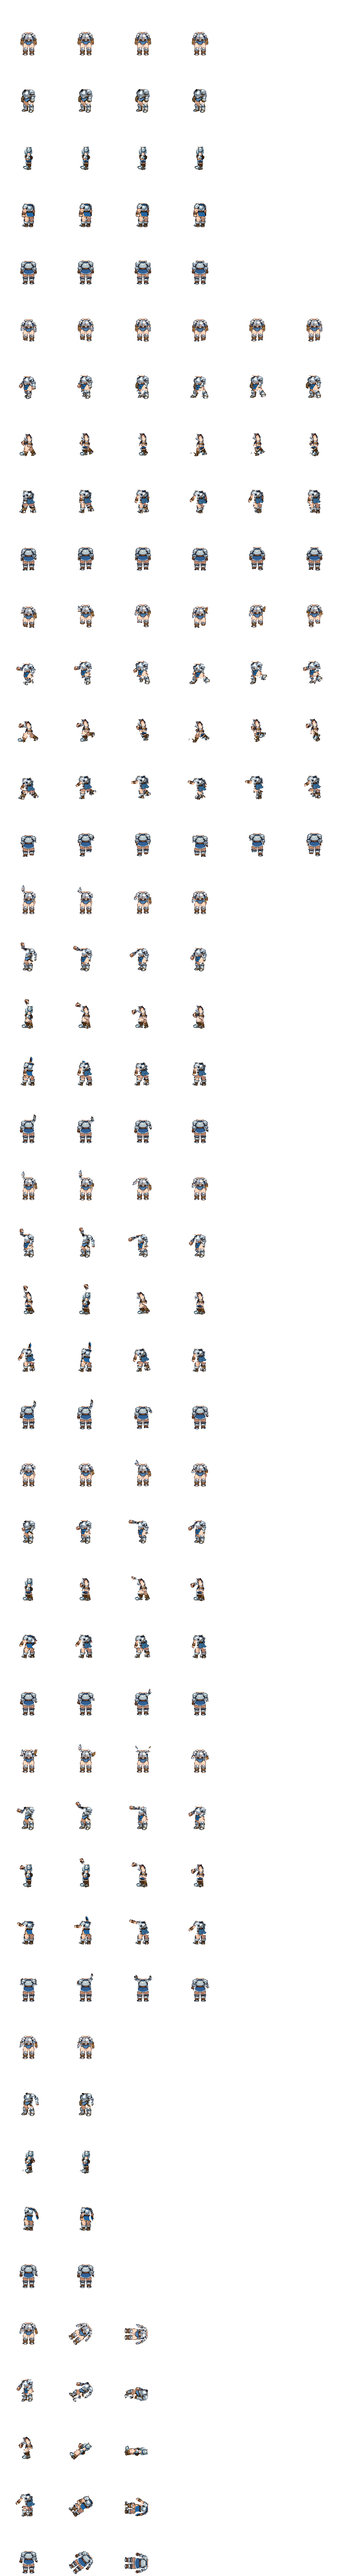
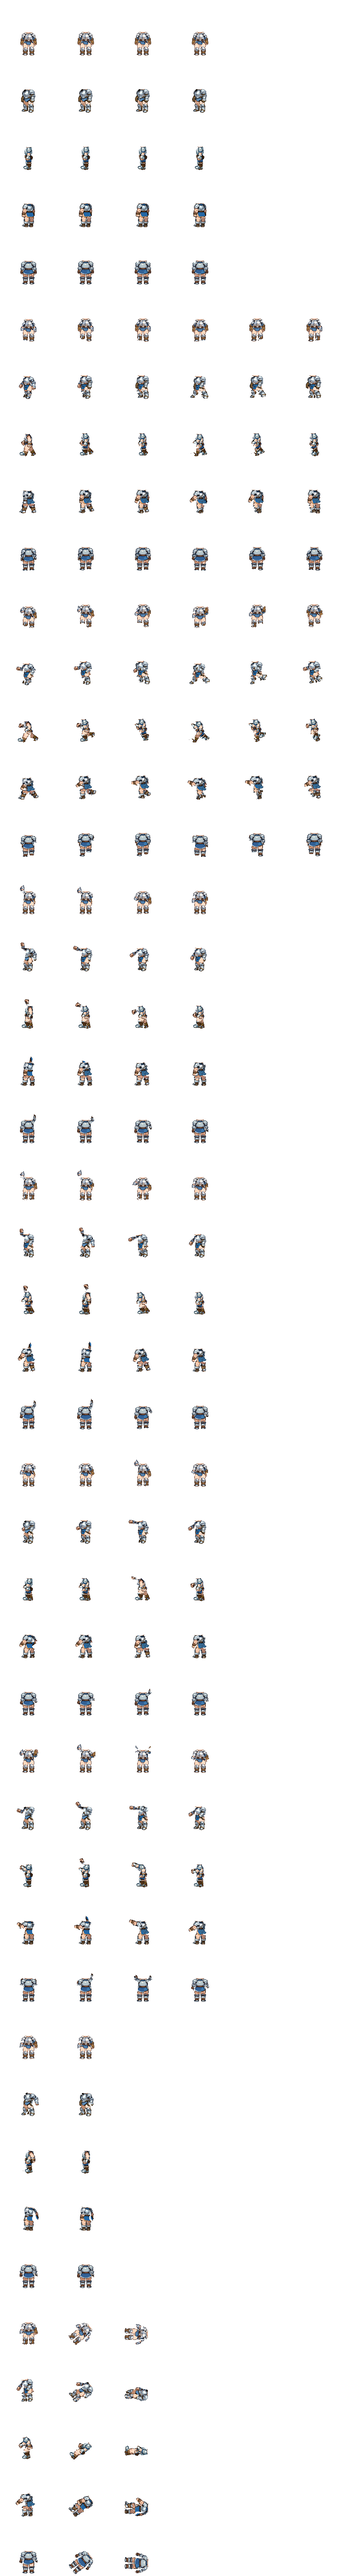
Give the near arm its own armor piece in side views
In both key frames the near arm (W, SW, NW) hangs over the torso, whose
wide side-view radius took those pixels, so the arm had no piece and
ran bare when it swung out. A limb nearer than the torso now takes the
pixels inside its own radius; the torso keeps them too, so no hole opens
on the chest. Forearm coverage median 0.89 -> 0.94 over all species.

Changed region(s): [[0.5625, 0.5, 0.5938, 0.5312], [0.0625, 0.5, 0.0938, 0.5312]]

diff --git a/pipeline/layers.py b/pipeline/layers.py
@@ -130,17 +130,22 @@ def bone_pieces(layer, ref_j, d, body):
     k = rig.SCALE / rig.GRID
     t = math.radians(rig.YAW[d])
     torso_r = math.hypot((body.shoulders / 2 - 1.5) * math.cos(t), 7.0 * body.width * math.sin(t)) * k
-    cost = []
+    cost, front = [], []
+    depth = lambda name: (ref_j[BONES[name][0]][2] + ref_j[BONES[name][1]][2]) / 2
     for name, (p, q) in BONES.items():
         p0, q0 = np.array(ref_j[p][:2]), np.array(ref_j[q][:2])
         v = q0 - p0
         u = np.clip(((pts - p0) @ v) / max(v @ v, 1e-6), 0, 1)
         dist = np.linalg.norm(pts - (p0 + u[:, None] * v), axis=1)
-        cost.append(dist - (torso_r if name == "torso" else 4.0 * body.limb * k))
-    owner = np.argmin(cost, axis=0)
+        r = torso_r if name == "torso" else 4.0 * body.limb * k
+        cost.append(dist - r)
+        front.append(dist - r - 1000 * (dist < r) if name != "torso" and depth(name) > depth("torso") else cost[-1])
+    # A limb in front of the torso (the near arm in a side view) is what is drawn there: it takes those
+    # pixels with it, and the torso keeps them too, so no hole opens when the limb swings away.
+    owner, under = np.argmin(front, axis=0), np.argmin(cost, axis=0)
     pieces = {}
     for i, name in enumerate(BONES):
-        sel = owner == i
+        sel = (owner == i) | ((under == i) & (name == "torso"))
         if sel.any():
             piece = np.zeros_like(a)
             piece[ys[sel], xs[sel]] = a[ys[sel], xs[sel]]

diff --git a/docs/specs/body-layers.md b/docs/specs/body-layers.md
@@ -129,6 +129,15 @@ Cost: 10 images for both items (+4 to redo SW and W hair), about 1 hour; placeme
   Still bare: a forearm reaching far forward or up (W run, NW slash) and the bare hands of
   stab S; hair still covers a hand raised in front of the face.
 
+- **Near arm in side views (2026-11-10):** the bare forearms were the near arm in W (and SW/NW):
+  in both key frames it hangs over the torso, the torso's wide side-view radius won those
+  pixels, and the arm got no piece of its own. Now a limb nearer than the torso takes the pixels
+  inside its own radius, and the torso keeps them too (no hole when the arm swings away). Forearm
+  coverage (outfit share of the body inside the rig's forearm, all 370 per species): median
+  0.89 → 0.94, frames under 0.3 from 9 to 2 over the four species; torso coverage unchanged.
+  Still bare: the stab S hands (forearm points at the camera, 1–2 px long in the rig) and an arm
+  raised behind the head in NW/N.
+
 ## Elf, Dwarf, Halfling (2026-11-09)
 
 `hair_short` and `outfit_fighter` (both key frames) on the three other species: 45 images in
